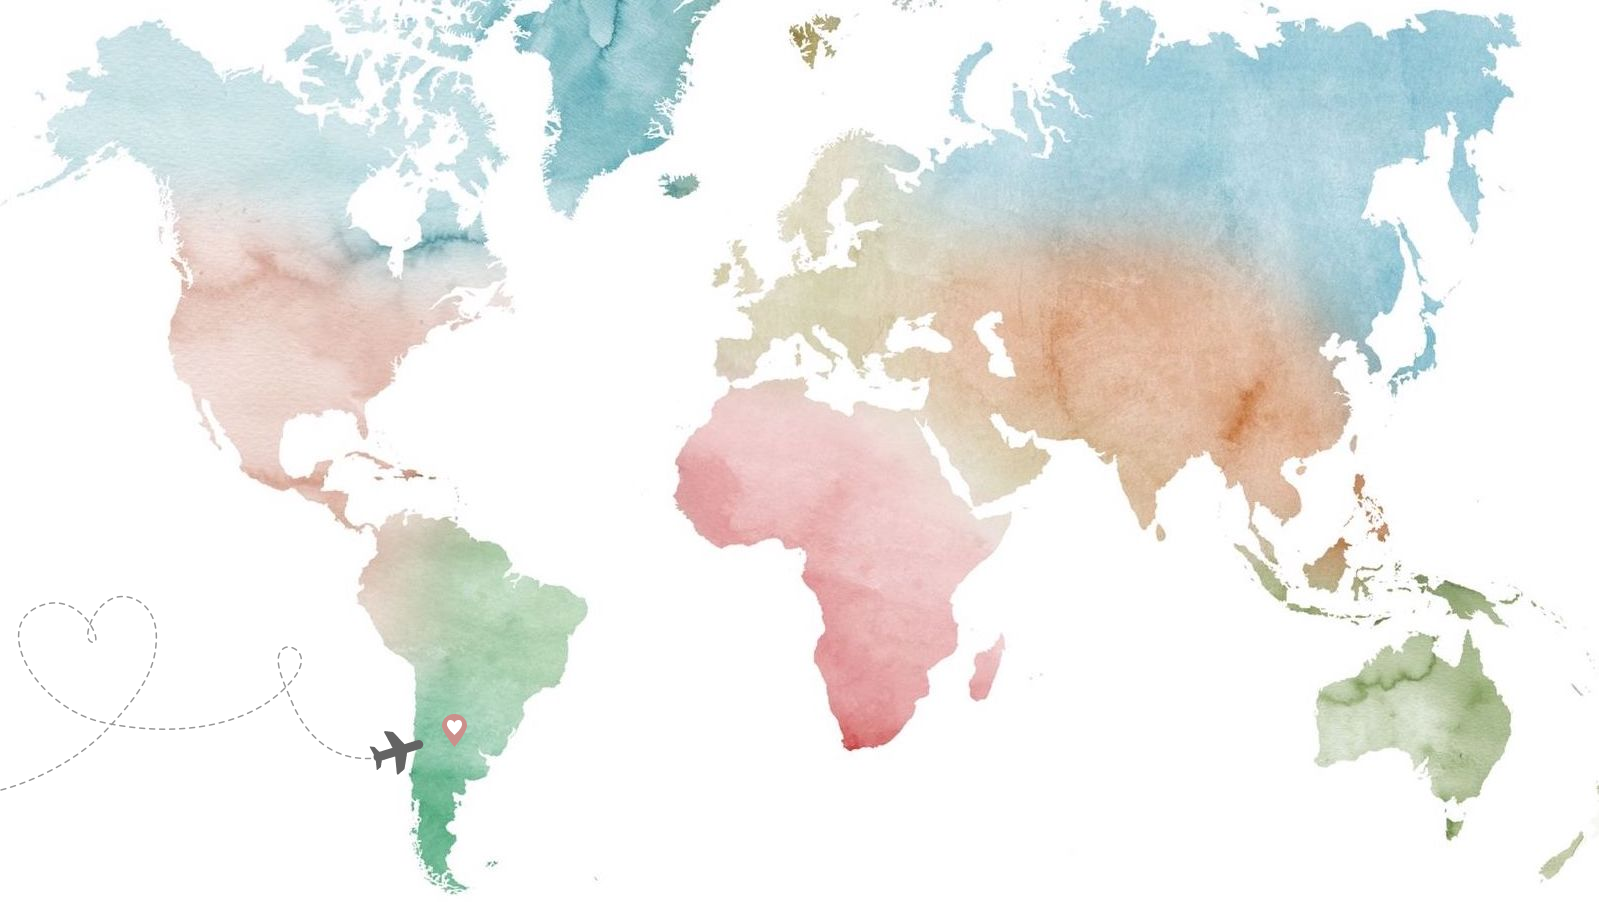
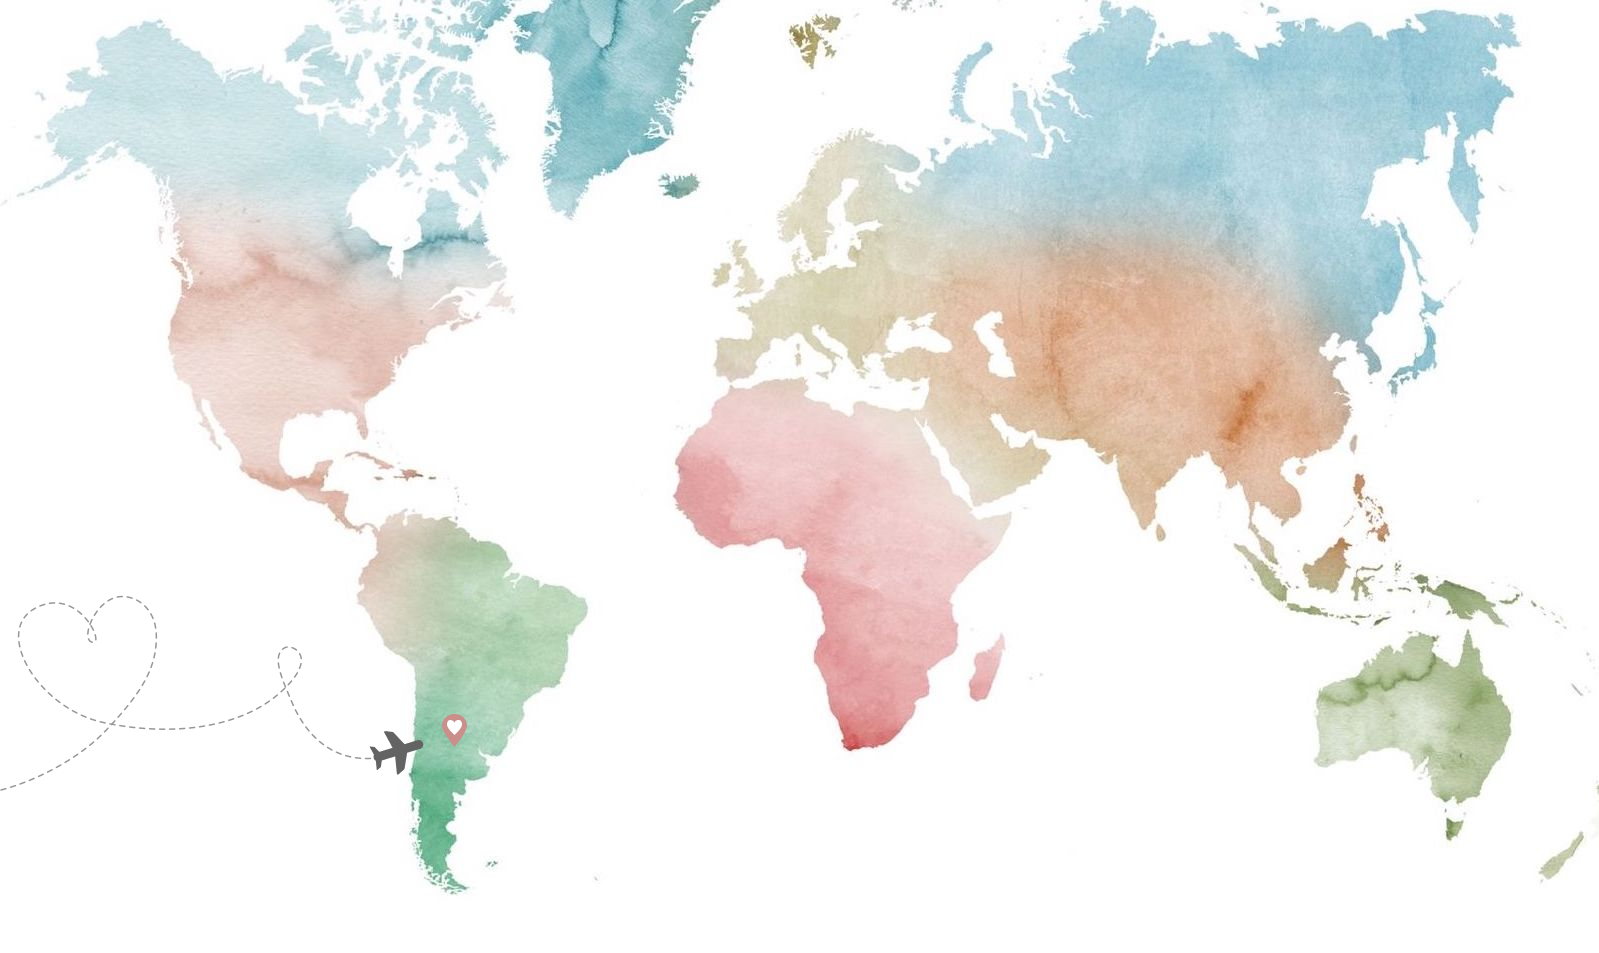
style(*): design tweaks

diff --git a/src/components/Header.jsx b/src/components/Header.jsx
@@ -40,7 +40,7 @@ const Container = styled.div`
 const FlowersLeft = styled.img.attrs({
   src: "/img/flowers.svg"
 })`
-  opacity: 0.8;
+  opacity: 0.9;
   position: absolute;
   left: 0;
   top: -1.5rem;
@@ -49,7 +49,7 @@ const FlowersLeft = styled.img.attrs({
 const FlowersRight = styled.img.attrs({
   src: "/img/flowers.svg"
 })`
-  opacity: 0.8;
+  opacity: 0.9;
   position: absolute;
   right: 0;
   bottom: -1.5rem;
@@ -94,7 +94,7 @@ export const Header = () => (
       <Content>
         <p>Nos Casamos!</p>
         <Heart />
-        <h1>Ivan & Fer</h1>
+        <h1>Iván y Fernanda</h1>
         <p>25/03/2023</p>
       </Content>
       <Frase>Y queremos compartir con ustedes este momento tan especial</Frase>

diff --git a/src/components/MainPage.jsx b/src/components/MainPage.jsx
@@ -23,6 +23,19 @@ const MainContainer = styled.div`
   justify-content: center;
   color: ${({ theme }) => theme.colors.textDefault};
 
+  ::after{
+    content:"";
+    position:fixed; /* stretch a fixed position to the whole screen */
+    top:0;
+    height:100vh; /* fix for mobile browser address bar appearing disappearing */
+    z-index:-1; /* needed to keep in the background */
+    background-image: url('/img/mapBackground.png');
+    background-repeat: no-repeat;
+    background-size: cover;
+    background-attachment: fixed;
+    background-position: left bottom;
+  }
+
   @media (max-width: 768px) {
     padding-bottom: 2.5rem;
   }

diff --git a/src/components/PhotosGalery.jsx b/src/components/PhotosGalery.jsx
@@ -1,5 +1,4 @@
 import styled from 'styled-components';
-import { transparentize } from 'polished';
 
 const PHOTOS_SRC = [
   'photo_01',
@@ -27,13 +26,14 @@ const Section = styled.div`
 
 const Title = styled.h1`
   font-size: 2.5rem;
+  margin-bottom: 0;
 `;
 
 const Container = styled.div`
   display: grid;
   grid-template-columns: repeat(4, 15rem);
-  grid-gap: 1.5rem;
-  padding: 1.25rem;
+  grid-gap: 2.25rem;
+  padding: 1rem 2.25rem;
 
   @media (max-width: 768px) {
     grid-template-columns: 1fr;

diff --git a/src/style/theme.js b/src/style/theme.js
@@ -5,9 +5,8 @@ export const theme = {
     white: '#fff',
     textDefault: '#2f2f2f',
     primary: '#90B89B',
-    secondary: '#cb8f8b',
+    secondary: '#d7c09e',
     cardBackground: transparentize(0.08, '#fff'),
-    yellow: '#c8b06a',
   },
   shadow: {
     default: '3px 2px 16px -3px rgba(74,74,74,0.75)',

diff --git a/src/components/Footer.jsx b/src/components/Footer.jsx
@@ -70,7 +70,7 @@ export const Footer = () => (
     <Message>¡Los esperamos!</Message>
     <Signature>
       <Heart iconHeight={16} />
-      <h1>Iván y Fernanda</h1>
+      <h1>Iván y Fer</h1>
       <Heart iconHeight={16} />
     </Signature>
   </Section>
